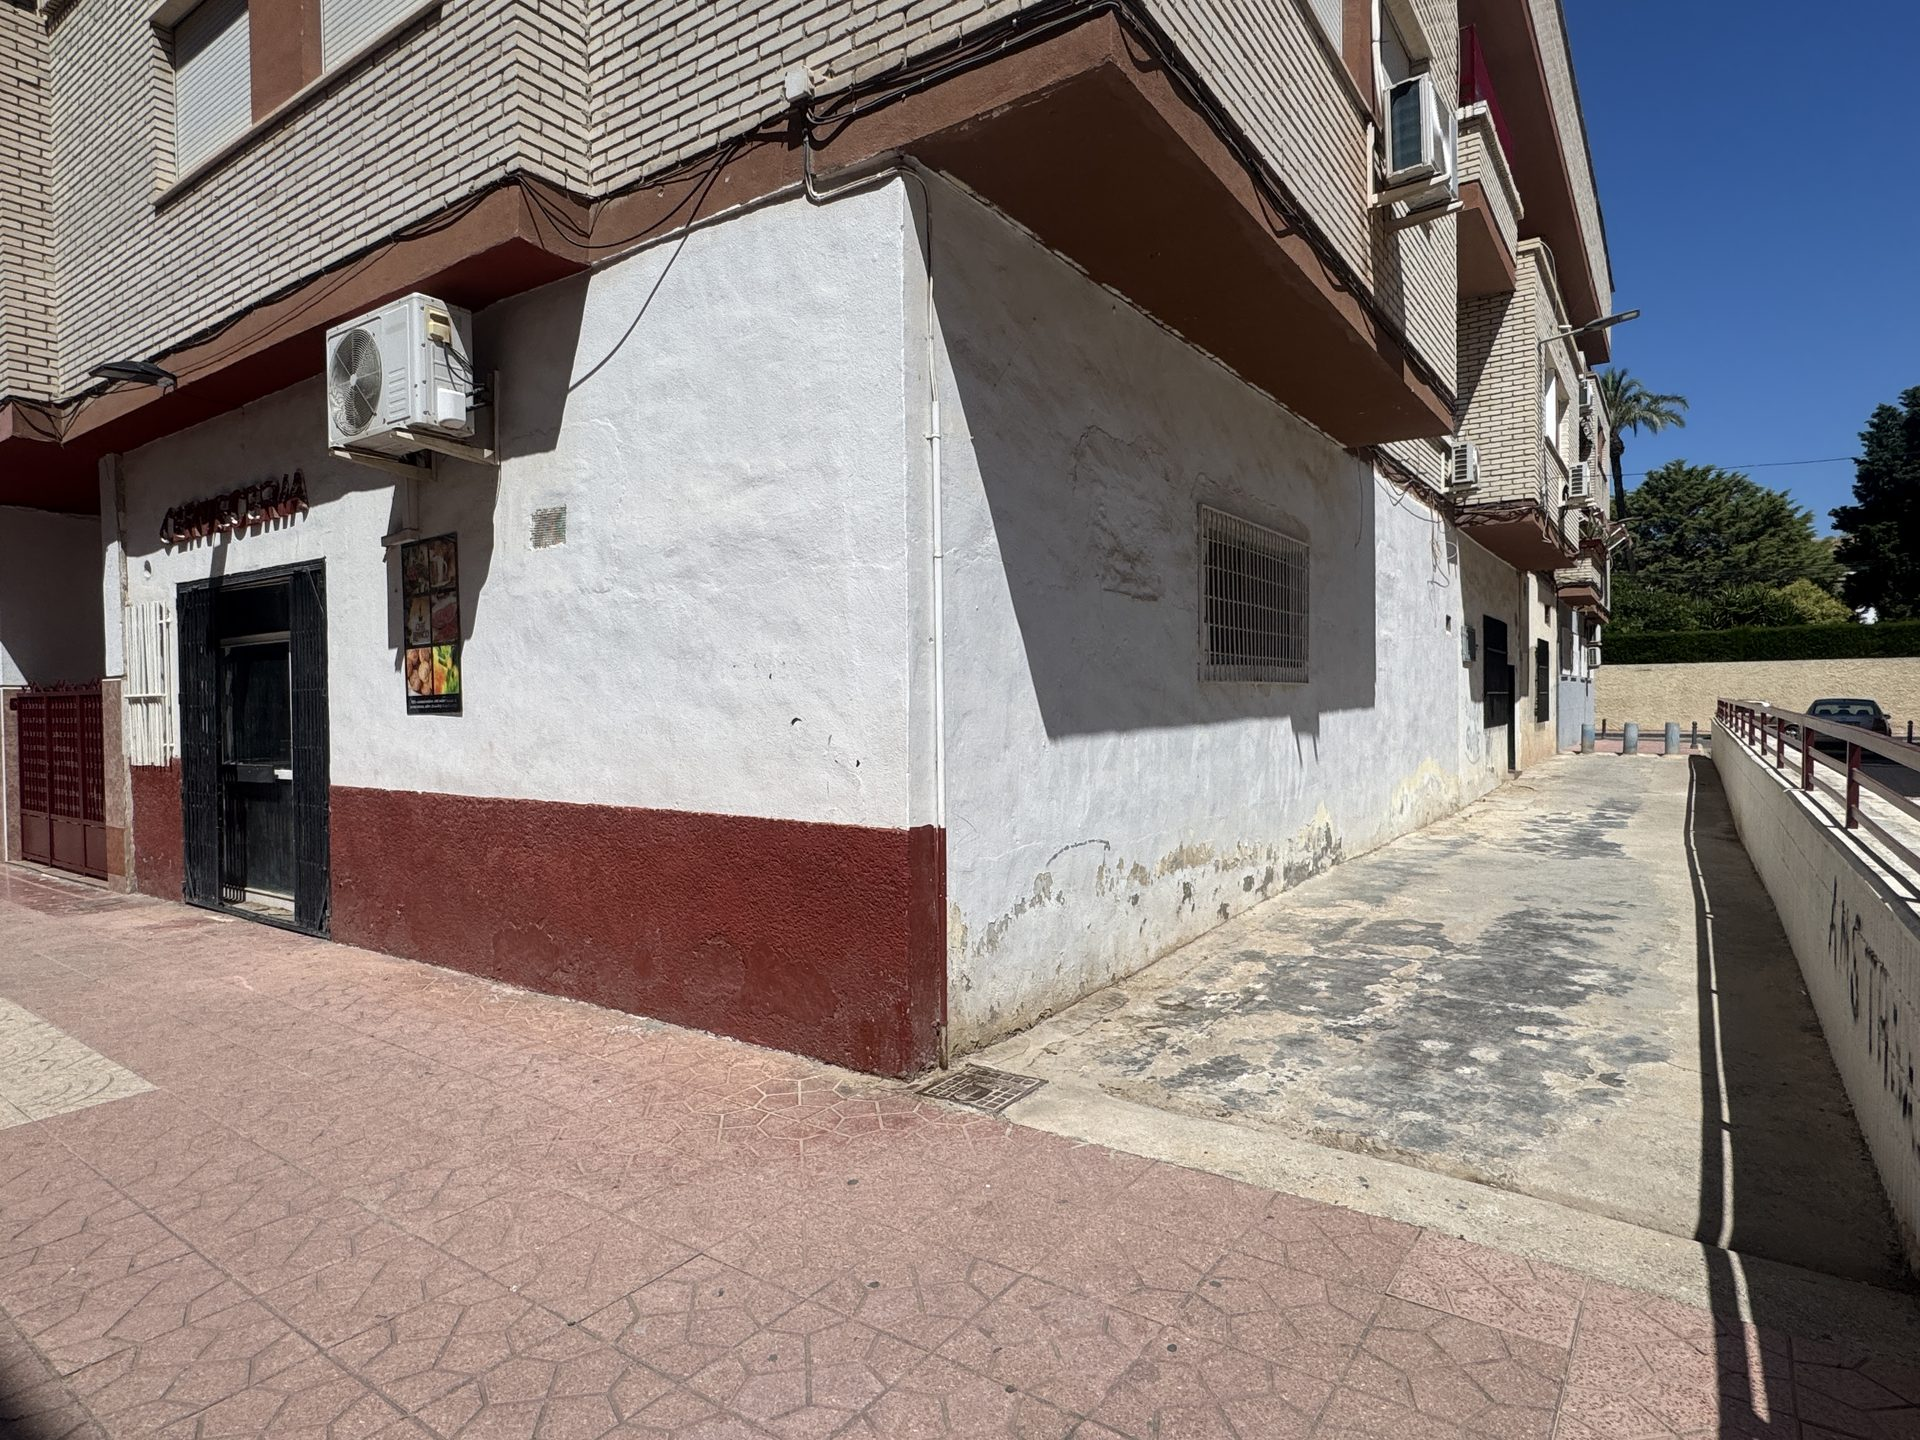
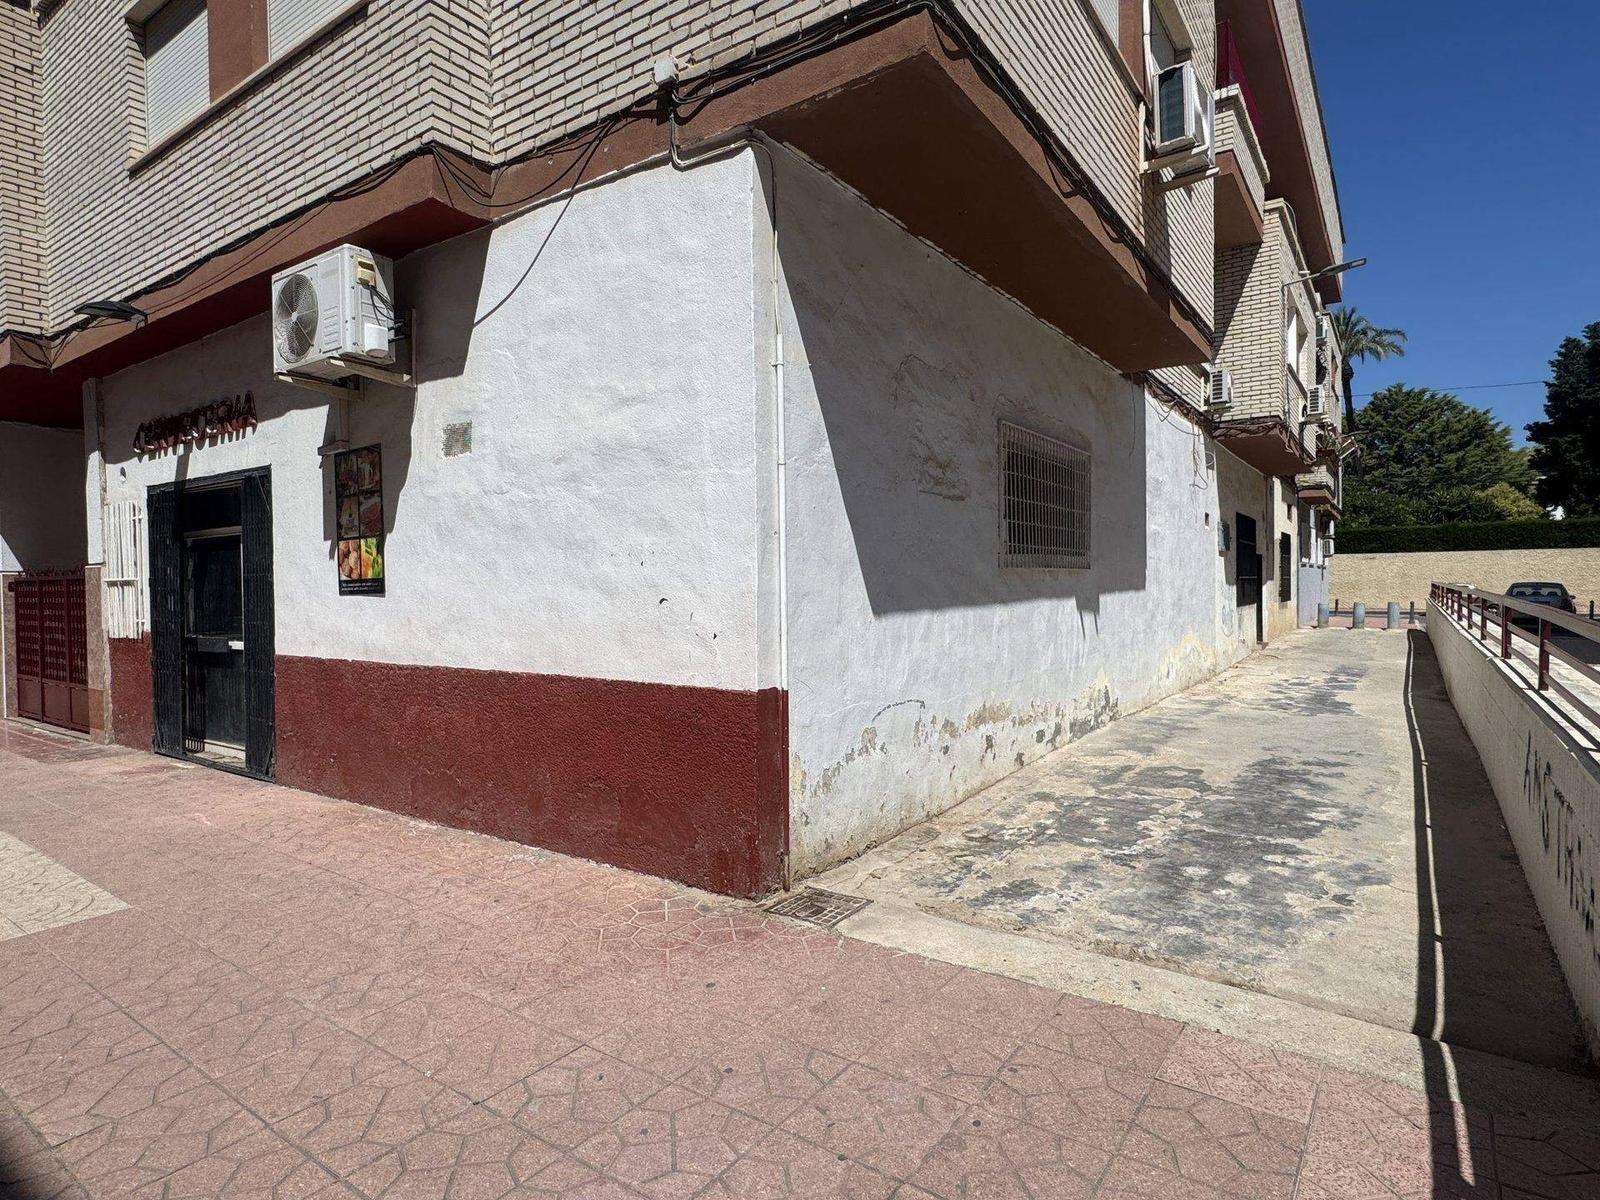
TDC: galería Estado original — nuevas fotos del activo (1,2 + 3.1,3.2,4,5,7,8)
Sustituye las fotos 3-6 anteriores por las del activo desde el Drive del equipo. Las 3.1/3.2 comprimidas a ~450KB para web.

Claude-Session: https://claude.ai/code/session_01St5iS3PpkSCNpP3rUyRRKN

diff --git a/torres-cotillas/index-v2.html b/torres-cotillas/index-v2.html
@@ -529,7 +529,9 @@ body.final .todo{display:none}
     <img src="assets/fotos/original-3.jpg" alt="Estado original 3" style="width:100%;aspect-ratio:4/3;object-fit:cover;border-radius:9px">
     <img src="assets/fotos/original-4.jpg" alt="Estado original 4" style="width:100%;aspect-ratio:4/3;object-fit:cover;border-radius:9px">
     <img src="assets/fotos/original-5.jpg" alt="Estado original 5" style="width:100%;aspect-ratio:4/3;object-fit:cover;border-radius:9px">
-    <img src="assets/fotos/otros-portal.jpg" alt="Portal" style="width:100%;aspect-ratio:4/3;object-fit:cover;border-radius:9px">
+    <img src="assets/fotos/original-6.jpg" alt="Estado original 6" style="width:100%;aspect-ratio:4/3;object-fit:cover;border-radius:9px">
+    <img src="assets/fotos/original-7.jpg" alt="Estado original 7" style="width:100%;aspect-ratio:4/3;object-fit:cover;border-radius:9px">
+    <img src="assets/fotos/original-8.jpg" alt="Estado original 8" style="width:100%;aspect-ratio:4/3;object-fit:cover;border-radius:9px">
   </div>
 </section>
 

diff --git a/torres-cotillas/index.html b/torres-cotillas/index.html
@@ -529,7 +529,9 @@ body.final .todo{display:none}
     <img src="assets/fotos/original-3.jpg" alt="Estado original 3" style="width:100%;aspect-ratio:4/3;object-fit:cover;border-radius:9px">
     <img src="assets/fotos/original-4.jpg" alt="Estado original 4" style="width:100%;aspect-ratio:4/3;object-fit:cover;border-radius:9px">
     <img src="assets/fotos/original-5.jpg" alt="Estado original 5" style="width:100%;aspect-ratio:4/3;object-fit:cover;border-radius:9px">
-    <img src="assets/fotos/otros-portal.jpg" alt="Portal" style="width:100%;aspect-ratio:4/3;object-fit:cover;border-radius:9px">
+    <img src="assets/fotos/original-6.jpg" alt="Estado original 6" style="width:100%;aspect-ratio:4/3;object-fit:cover;border-radius:9px">
+    <img src="assets/fotos/original-7.jpg" alt="Estado original 7" style="width:100%;aspect-ratio:4/3;object-fit:cover;border-radius:9px">
+    <img src="assets/fotos/original-8.jpg" alt="Estado original 8" style="width:100%;aspect-ratio:4/3;object-fit:cover;border-radius:9px">
   </div>
 </section>
 